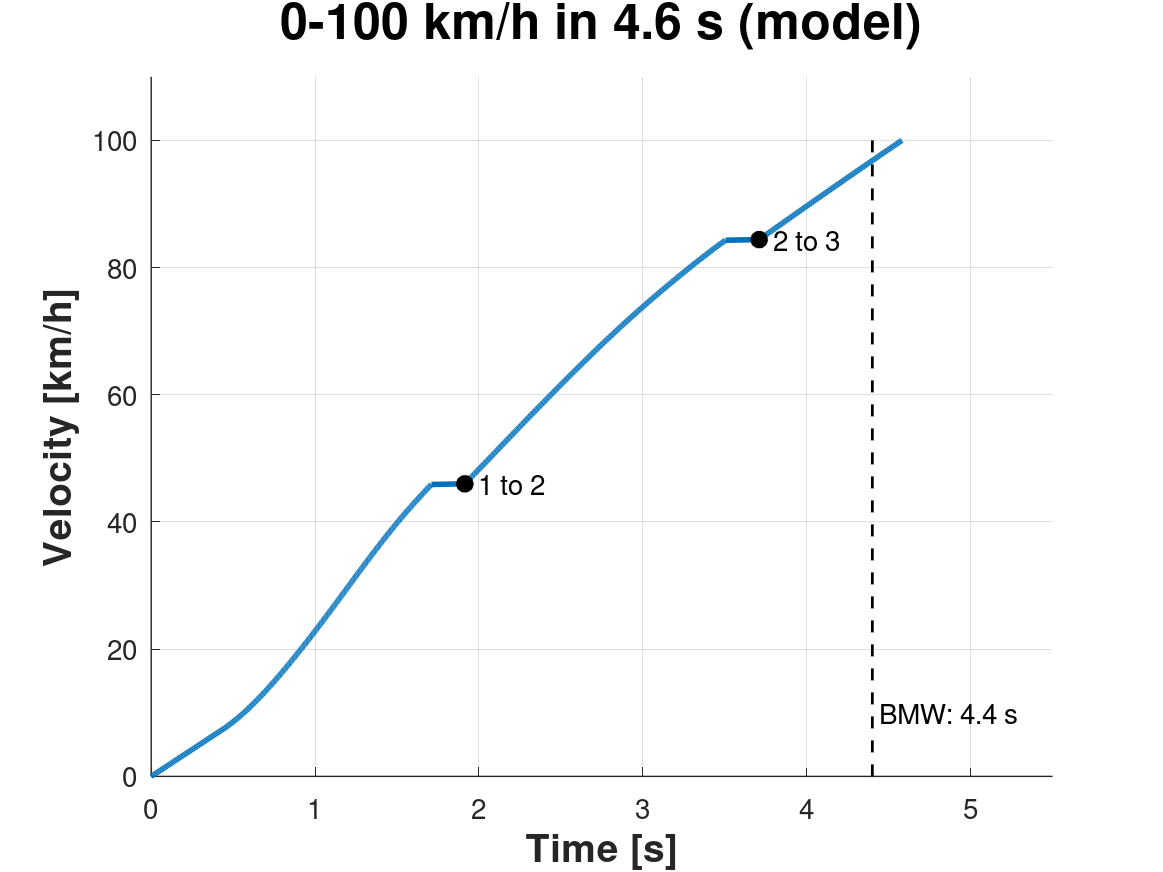
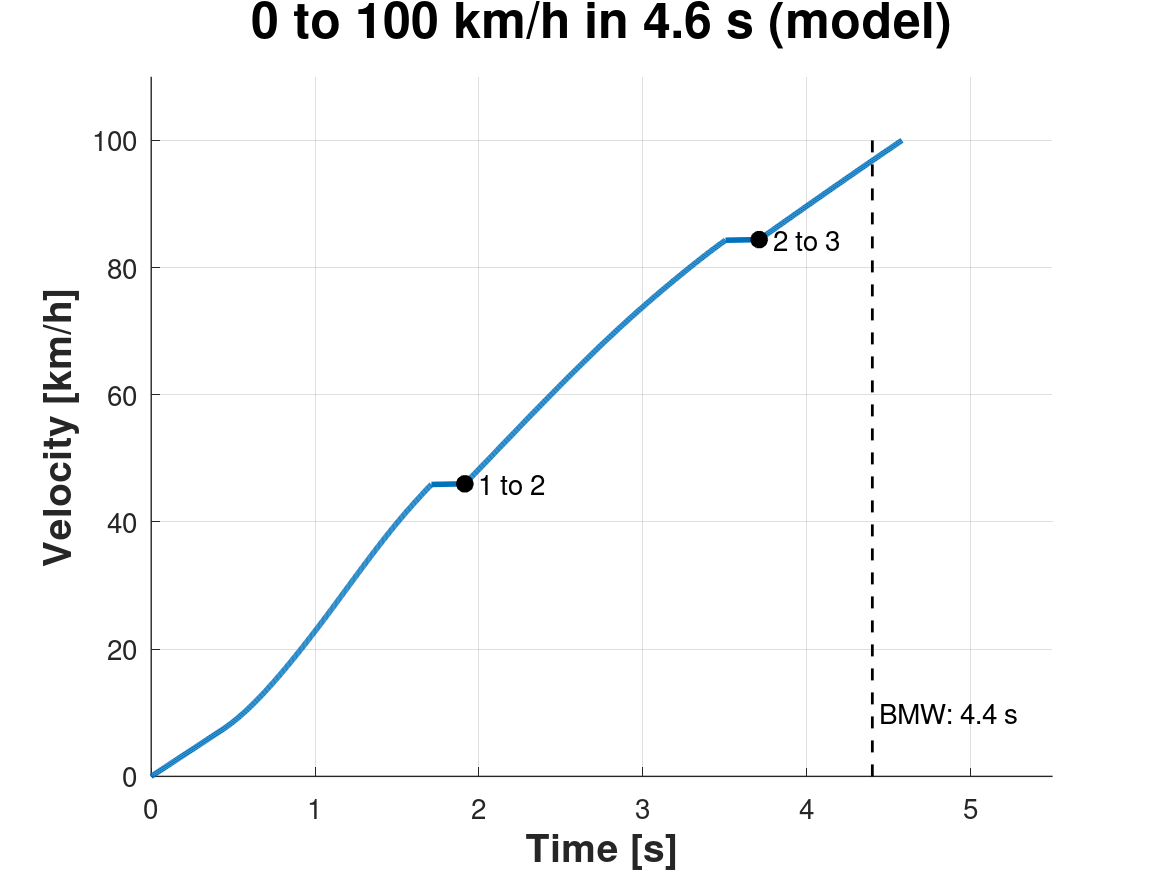
Write 0 to 100 km/h without a dash in the script and Figure 6

Changed region(s): [[0.2167, 0.0, 0.8358, 0.0619]]

diff --git a/scripts/bmw_i8_analysis.m b/scripts/bmw_i8_analysis.m
@@ -5,7 +5,7 @@
 % DESCRIPTION:
 % Longitudinal vehicle dynamics of the BMW i8 Coupe: driving resistances,
 % tractive force in each gear, acceleration in each gear, climbing ability,
-% top speed and a 0-100 km/h run compared with BMW's published time.
+% top speed and a 0 to 100 km/h run compared with BMW's published time.
 %
 % ANALYSIS COMPONENTS:
 % 1. Aerodynamic drag
@@ -24,7 +24,7 @@
 %    - Acceleration in each gear on a flat road, with the rotating mass
 %      factor, limited by tyre grip
 %    - Top speed the drivetrain could reach
-% 6. 0-100 km/h
+% 6. 0 to 100 km/h
 %    - Speed against time with gear changes, compared with BMW's 4.4 s
 %
 % MODEL ASSUMPTIONS (more in the README):
@@ -353,8 +353,8 @@ else
 end
 fprintf('    The car is electronically limited to %d km/h\n\n', v_limit);
 
-%% 6. 0-100 KM/H
-fprintf('Running 0-100 km/h simulation...\n');
+%% 6. 0 TO 100 KM/H
+fprintf('Running 0 to 100 km/h simulation...\n');
 
 dv = 0.1; % Speed step [km/h]
 v_run = 0:dv:100; % Speeds of the run [km/h]
@@ -379,7 +379,7 @@ t_run = [0 cumsum(dt + shifts*t_shift)];
 n_shifts = sum(shifts);
 shift_speeds = v_run([false shifts]);
 
-fig6 = figure('Name','6. 0-100 km/h','NumberTitle','off');
+fig6 = figure('Name','6. 0 to 100 km/h','NumberTitle','off');
 hold on
 plot(t_run, v_run, 'LineWidth', 2)
 plot([t_0_100_bmw t_0_100_bmw], [0 100], '--k', 'LineWidth', 1)
@@ -389,15 +389,15 @@ for k = 1:n_shifts
   plot(t_run(ks), v_run(ks), 'ok', 'MarkerFaceColor', 'k')
   text(t_run(ks), v_run(ks), sprintf('  %d to %d', gear_run(ks-1), gear_run(ks)))
 end
-title(sprintf('0-100 km/h in %.1f s (model)', t_run(end)),'fontweight','bold','fontsize',18)
+title(sprintf('0 to 100 km/h in %.1f s (model)', t_run(end)),'fontweight','bold','fontsize',18)
 xlabel('Time [s]','fontweight','bold','fontsize',14)
 ylabel('Velocity [km/h]','fontweight','bold','fontsize',14)
 grid on
 xlim([0 ceil(max(t_run(end), t_0_100_bmw)) + 0.5])
 ylim([0 110])
 
-fprintf('  ✓ 0-100 km/h simulation complete\n');
-fprintf('    0-100 km/h: %.2f s with %d gear changes of %.1f s (%.2f s without the shift time)\n', ...
+fprintf('  ✓ 0 to 100 km/h simulation complete\n');
+fprintf('    0 to 100 km/h: %.2f s with %d gear changes of %.1f s (%.2f s without the shift time)\n', ...
   t_run(end), n_shifts, t_shift, t_ideal(end));
 fprintf('    Gear changes at: %s km/h\n', num2str(round(shift_speeds)));
 fprintf('    BMW published: %.1f s\n\n', t_0_100_bmw);
@@ -423,4 +423,4 @@ fprintf('  2. Rolling Resistance Analysis\n');
 fprintf('  3. Grade Resistance Analysis\n');
 fprintf('  4. Tractive Force Graph\n');
 fprintf('  5. Acceleration Performance\n');
-fprintf('  6. 0-100 km/h\n\n');
+fprintf('  6. 0 to 100 km/h\n\n');
